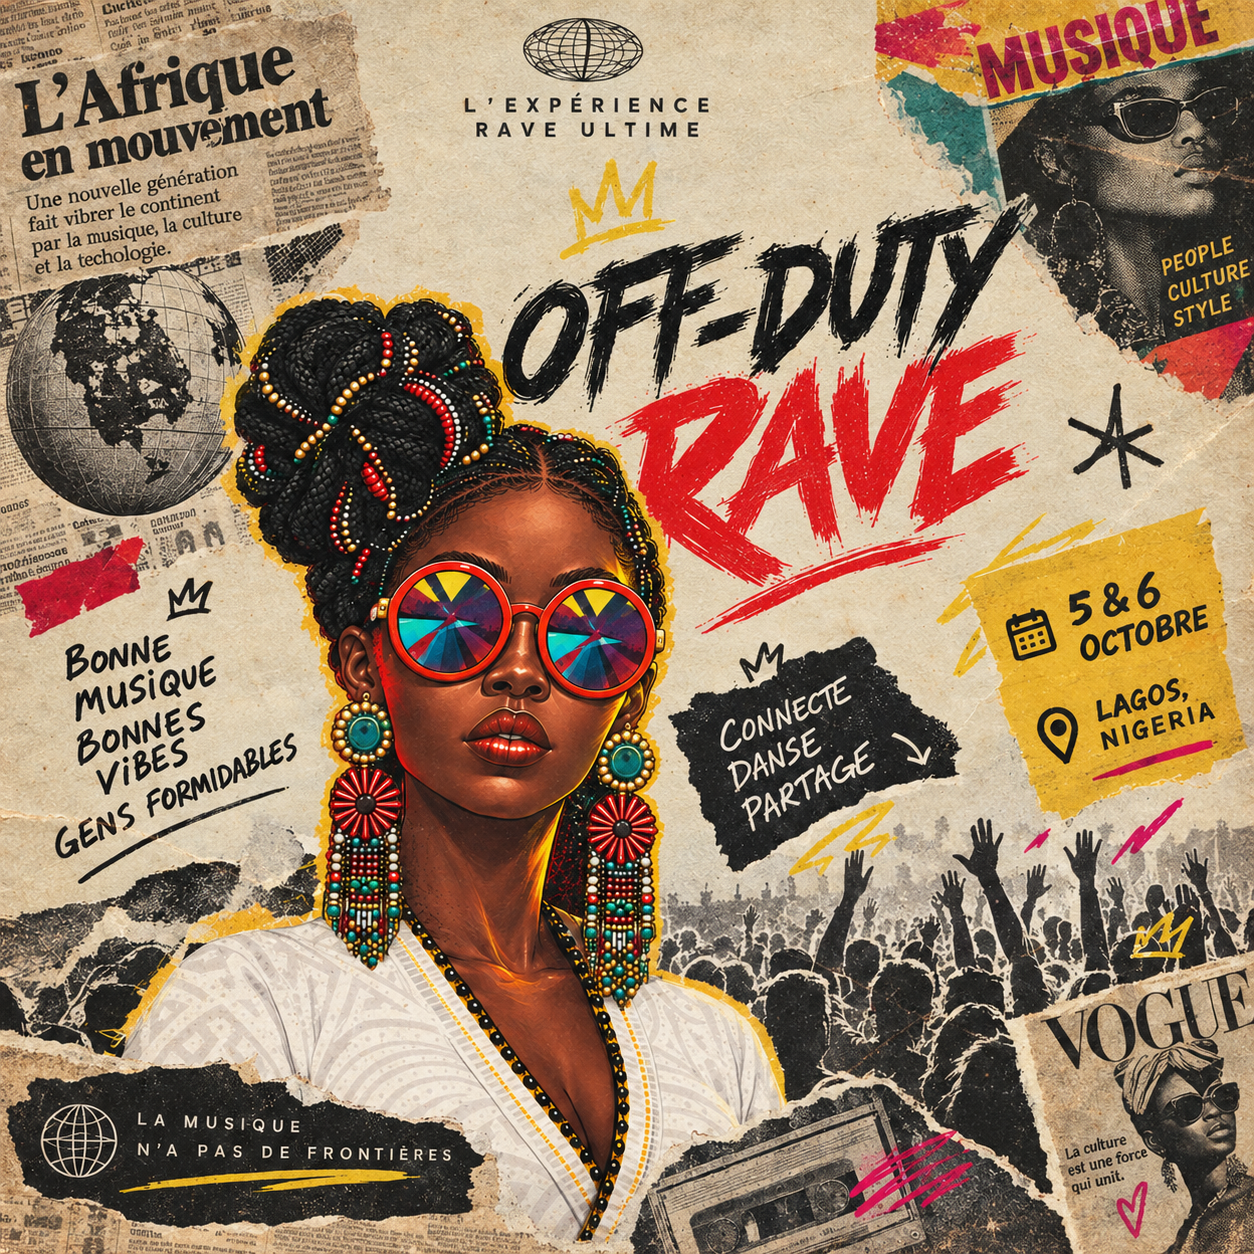
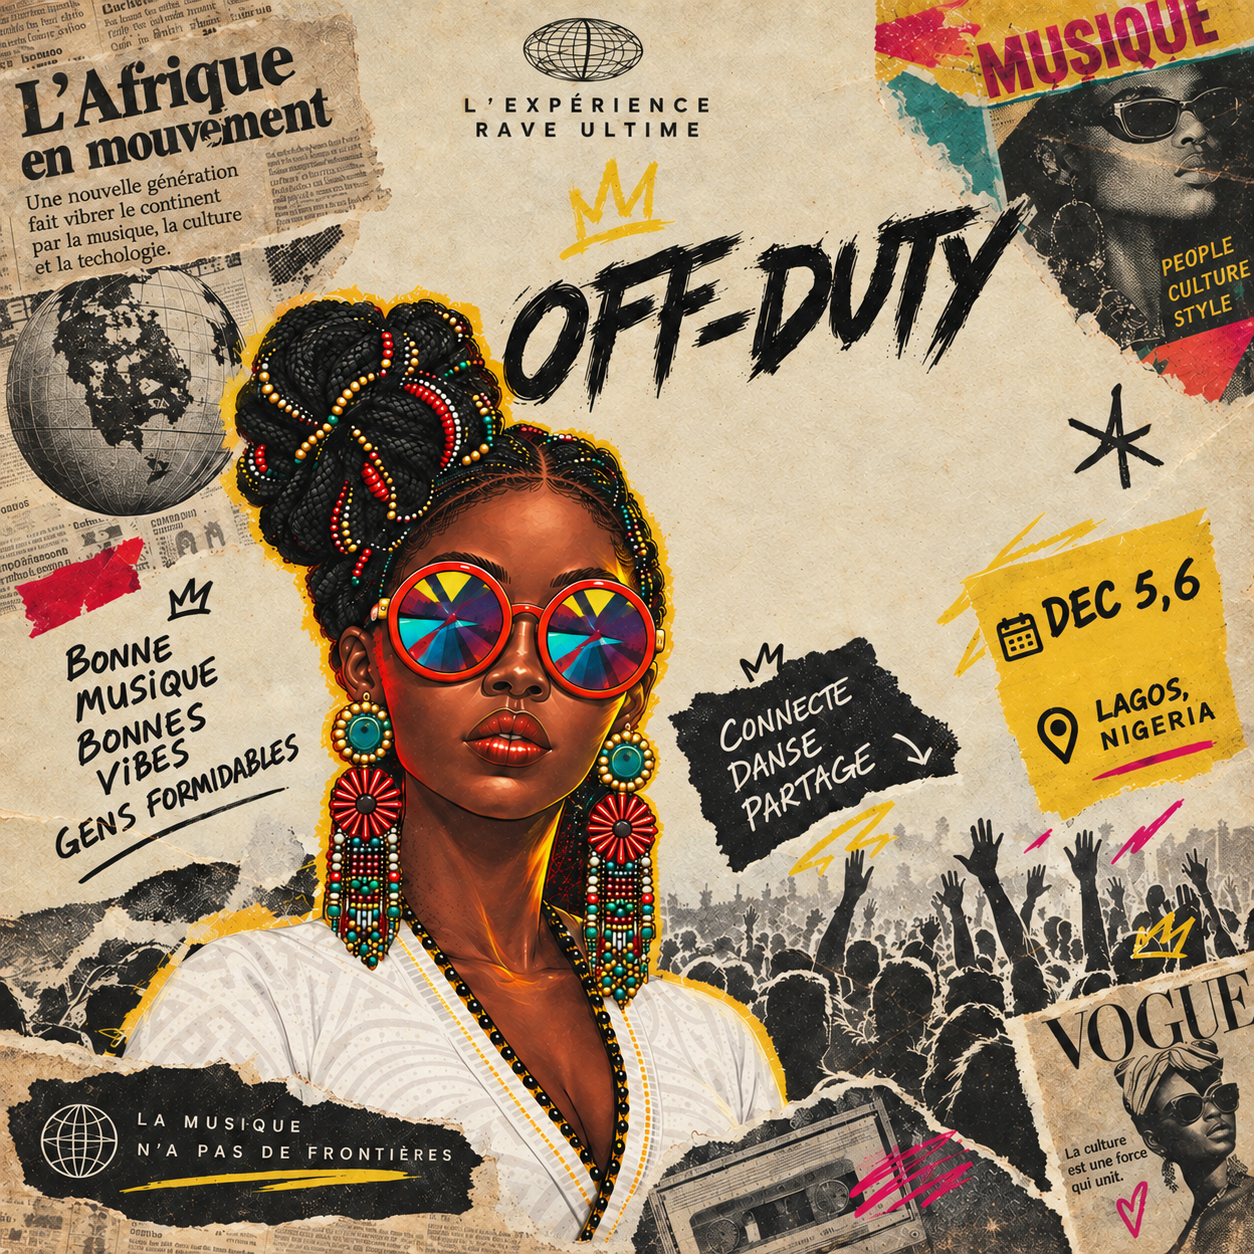
fix dates from OCT to DEC

diff --git a/old.html b/old.html
@@ -6,10 +6,10 @@
   <meta name="viewport" content="width=device-width, initial-scale=1.0" />
   <title>Onchain Festival 2026 | Africa's Digital Economy Festival</title>
   <meta name="description"
-    content="Africa's flagship digital economy festival. October 30 2026. Lagos Nigeria. Where builders, governments, investors and innovators shape the future of money." />
+    content="Africa's flagship digital economy festival. December 30 2026. Lagos Nigeria. Where builders, governments, investors and innovators shape the future of money." />
   <meta property="og:title" content="Onchain Festival 2026 — Where Africa's Future Is Built" />
   <meta property="og:description"
-    content="October 30 2026. Lagos Nigeria. Builders. Capital. Policy. Enterprise. AI. Digital Assets." />
+    content="December 30 2026. Lagos Nigeria. Builders. Capital. Policy. Enterprise. AI. Digital Assets." />
   <meta property="og:type" content="website" />
   <link rel="icon" type="image/png" href="icon.png" />
   <link rel="apple-touch-icon" href="icon.png" />
@@ -2636,7 +2636,7 @@
     <div class="hero-content">
       <div class="hero-eyebrow">
         <div class="nav-logo-dot"></div>
-        <span>October 30, 2026 &nbsp;·&nbsp; Lagos, Nigeria &nbsp;·&nbsp; Edition 2.0</span>
+        <span>December 30, 2026 &nbsp;·&nbsp; Lagos, Nigeria &nbsp;·&nbsp; Edition 2.0</span>
       </div>
       <h1 class="display display-xl hero-title">
         <span class="line1">Africa's Future<br />Runs Onchain.</span>
@@ -2647,7 +2647,7 @@
         <a href="https://calendly.com/femiadegolu-hltd/30min?month=2026-07" target="_blank" rel="noopener"
           class="btn btn-outline-dark">Become a Partner</a>
       </div>
-      <div class="countdown-label">Countdown to October 30, 2026</div>
+      <div class="countdown-label">Countdown to December 30, 2026</div>
       <div class="countdown-items">
         <div class="countdown-item"><span class="countdown-num" id="cd-days">00</span><span
             class="countdown-unit">Days</span></div>
@@ -3230,7 +3230,7 @@
       <div class="section-header reveal">
         <div class="label">Schedule</div>
         <div class="gold-rule"></div>
-        <h2 class="display display-lg section-title" style="color:var(--white);">October 30, 2026</h2>
+        <h2 class="display display-lg section-title" style="color:var(--white);">December 30, 2026</h2>
         <p class="section-desc" style="color:rgba(255,255,255,0.45);">One day. Eight tracks. Every session built for
           real outcomes. Full schedule to be published in September 2026.</p>
       </div>
@@ -3306,7 +3306,7 @@
         <div class="gold-rule"></div>
         <h2 class="display display-lg section-title" style="color:var(--white);">They Said It Could Not Be Done in
           Lagos.</h2>
-        <p class="section-desc" style="color:rgba(255,255,255,0.45);">Then October 30, 2025 happened. Edition 2 goes
+        <p class="section-desc" style="color:rgba(255,255,255,0.45);">Then December 30, 2025 happened. Edition 2 goes
           further in every direction.</p>
       </div>
       <div class="gallery-marquee reveal" aria-label="2025 edition moving image strip">
@@ -3544,7 +3544,7 @@
           <div class="faq-question" onclick="toggleFaq(this)">When and where is Onchain Festival 2026?<span
               class="faq-icon">+</span></div>
           <div class="faq-answer">
-            <p>October 30, 2026 in Lagos, Nigeria. The exact venue will be confirmed and announced this year. Sign up to
+            <p>December 30, 2026 in Lagos, Nigeria. The exact venue will be confirmed and announced this year. Sign up to
               our mailing list to be notified first.</p>
           </div>
         </div>
@@ -3671,7 +3671,7 @@
   <section class="register-cta" id="register">
     <div class="register-bg-text">LAGOS</div>
     <div class="register-cta-inner">
-      <div class="label" style="text-align:center; margin-bottom:1.2rem;">October 30, 2026</div>
+      <div class="label" style="text-align:center; margin-bottom:1.2rem;">December 30, 2026</div>
       <h2 class="display display-xl"
         style="text-align:center; margin-bottom:1.5rem; max-width:780px; margin-left:auto; margin-right:auto; color:var(--white);">
         This Is Africa's Moment.<br>Be in the Room.</h2>

diff --git a/index.html b/index.html
@@ -86,7 +86,7 @@
     .ticket-option-name { display: block; color: #fff9ed; font-size: .96rem; font-weight: 700; }
     .ticket-option-note { display: block; margin-top: .25rem; color: rgba(255,255,255,.48); font-size: .72rem; }
     .ticket-early-bird { display: inline-block; margin-top: .55rem; color: var(--gold-bright); font-size: .62rem; font-weight: 700; letter-spacing: .12em; text-transform: uppercase; }
-    .ticket-early-bird::after { content: ' · Ends Oct. 10'; color: rgba(255,255,255,.55); letter-spacing: .04em; }
+    .ticket-early-bird::after { content: ' · Ends Dec. 10'; color: rgba(255,255,255,.55); letter-spacing: .04em; }
     .ticket-option-price { display: block; margin-top: .45rem; color: var(--gold-bright); font-size: .82rem; font-weight: 700; white-space: nowrap; }
     .ticket-option-quantity { display: flex; align-items: center; gap: .45rem; color: rgba(255,255,255,.5); font-size: .62rem; font-weight: 700; letter-spacing: .1em; text-transform: uppercase; }
     .ticket-option-quantity input { width: 64px; min-height: 40px; padding: .55rem; text-align: center; }
@@ -446,7 +446,7 @@
 
     <section class="section section-dark gallery-section" id="gallery">
       <div class="container">
-        <div class="section-header gallery-header reveal"><div class="eyebrow">2025 edition / Lagos</div><div class="gold-rule"></div><h2 class="display display-lg">They said it could not be done.</h2><p>Then October 30, 2025 happened. A look back at the people, rooms and energy that set the pace for Off-Duty 2026.</p></div>
+        <div class="section-header gallery-header reveal"><div class="eyebrow">2025 edition / Lagos</div><div class="gold-rule"></div><h2 class="display display-lg">They said it could not be done.</h2><p>Then December 30, 2025 happened. A look back at the people, rooms and energy that set the pace for Off-Duty 2026.</p></div>
         <div class="gallery-grid reveal">
           <figure class="gallery-card"><img src="https://res.cloudinary.com/w4sapiim/image/upload/v1789668172/gugua.jpg" alt="Guests exploring the 2025 exhibition" loading="lazy" decoding="async" /><figcaption>Find your people</figcaption></figure>
           <figure class="gallery-card"><img src="https://res.cloudinary.com/w4sapiim/image/upload/f_auto,q_auto,w_600/lan_0005.JPEG" alt="Guests connecting at the 2025 event" loading="lazy" decoding="async" /><figcaption>Make the room</figcaption></figure>
